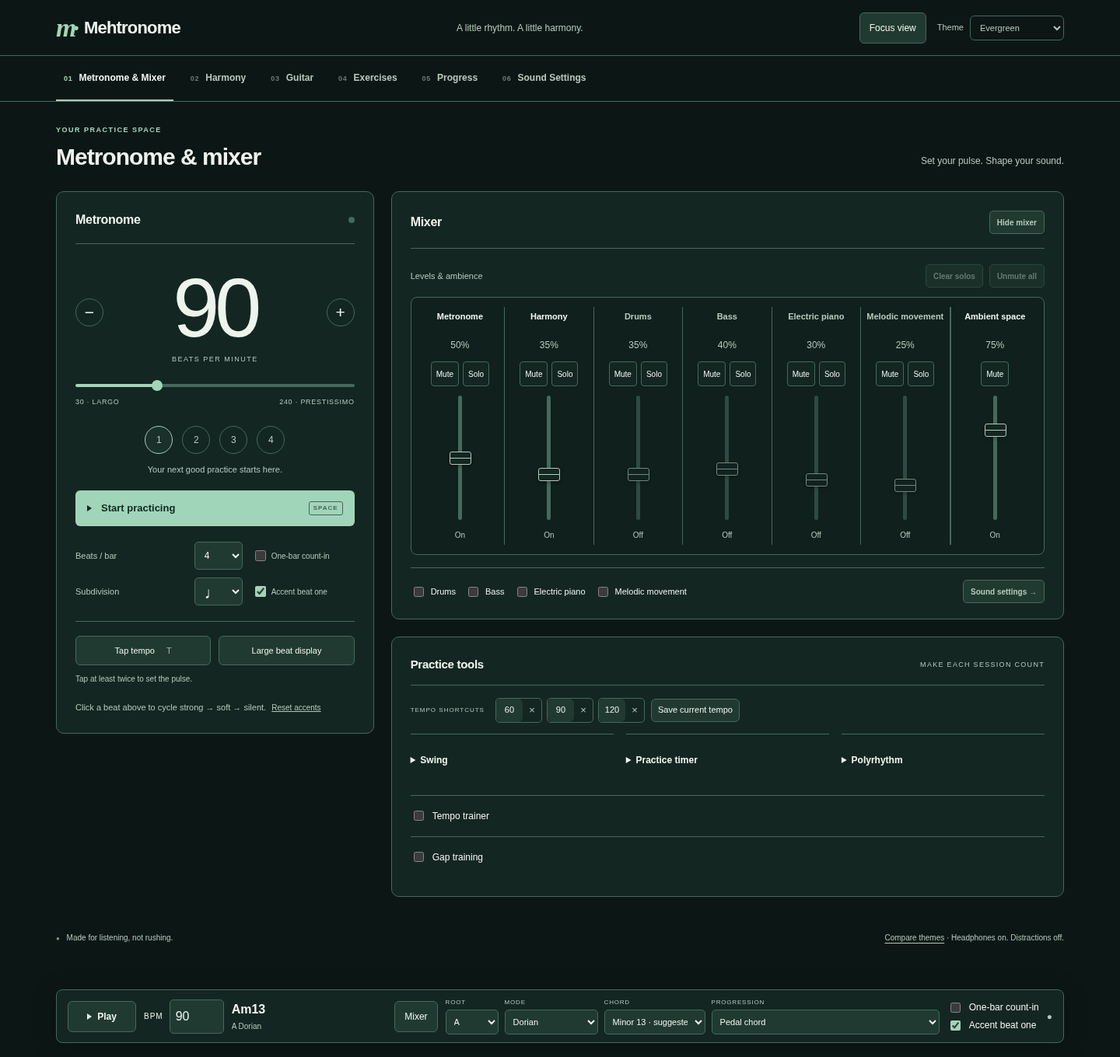
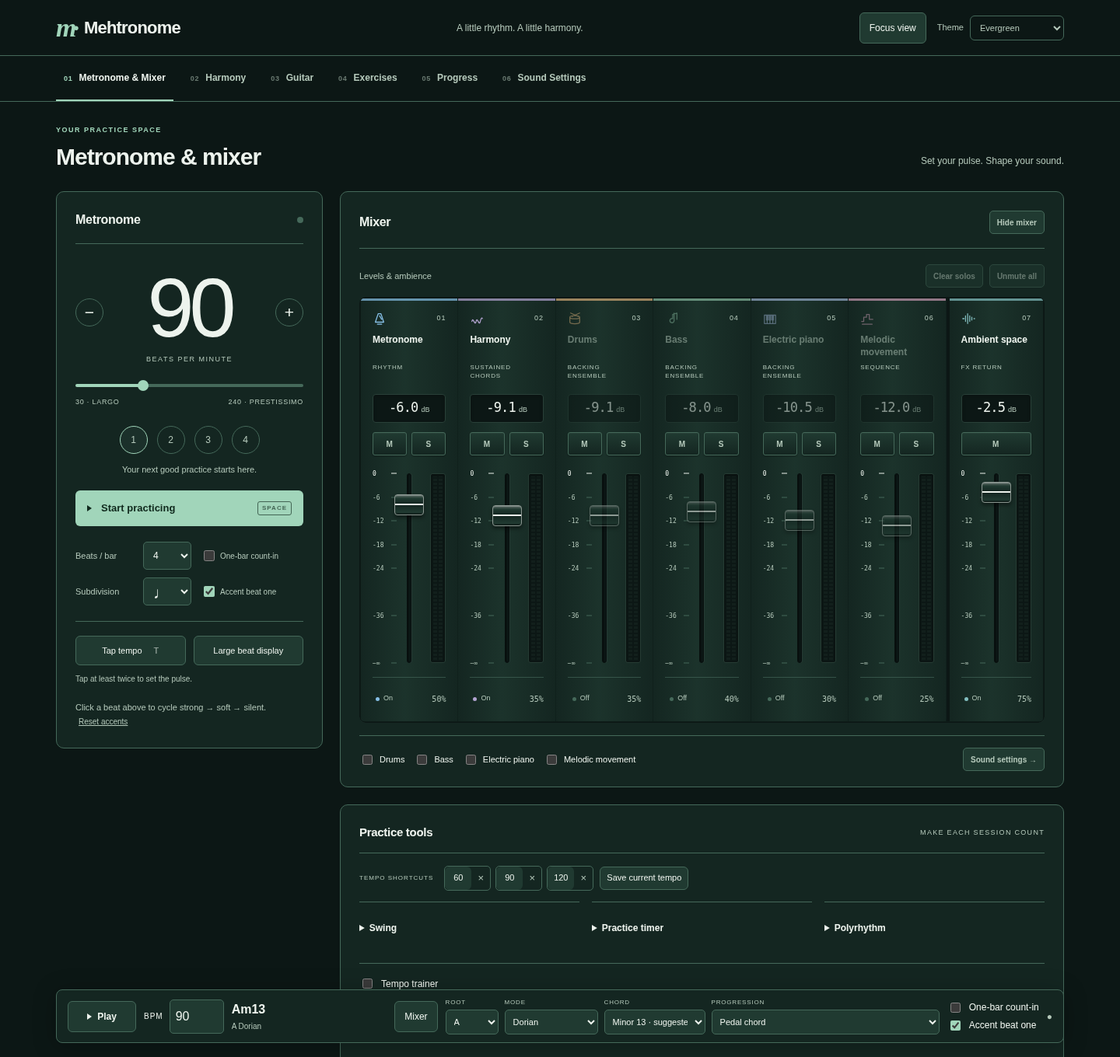
Install studio console with logarithmic faders and measured channel meters

diff --git a/web/src/console.css b/web/src/console.css
@@ -1,0 +1,39 @@
+/* Shared main and focus-bar studio console. */
+html:root[data-palette][data-theme] body :is(#mix-panel,#floating-mixer) {
+.mix-level-grid{display:grid;grid-template-columns:repeat(7,minmax(120px,1fr));gap:1px;padding:1px;background:color-mix(in srgb,var(--line) 60%,var(--page));border:1px solid var(--page);border-radius:8px;overflow:hidden;box-shadow:0 1px 0 #fff1,inset 0 1px 4px #0007}.mix-channel{position:relative;min-width:0;padding:0 15px 14px;background:linear-gradient(90deg,var(--panel),color-mix(in srgb,var(--field) 65%,var(--panel)) 45%,var(--panel));display:flex;flex-direction:column;align-items:stretch}.mix-channel:before{content:'';height:3px;background:var(--channel-color);margin:0 -15px 14px;opacity:.7}.mix-channel.return{border-left:4px solid var(--page)}.console-channel-top{display:flex;justify-content:space-between;align-items:center;margin-bottom:10px}.console-channel-top svg{width:18px;height:18px;stroke:var(--channel-color);fill:none;stroke-width:1.4;stroke-linecap:round;stroke-linejoin:round}.console-number{font-size:9px;color:var(--muted);font-variant-numeric:tabular-nums;letter-spacing:.1em}.console-channel-name{font-size:12px;font-weight:600;min-height:36px;line-height:1.35}.console-channel-role{font-size:8px;color:var(--muted);letter-spacing:.1em;margin:2px 0 12px}.console-gain{text-align:center;background:var(--page);border:1px solid color-mix(in srgb,var(--line) 50%,var(--page));border-radius:4px;padding:7px 2px;box-shadow:inset 0 2px 5px #0003;font-variant-numeric:tabular-nums}.console-gain output{font:500 17px/1.1 ui-monospace,SFMono-Regular,monospace;letter-spacing:-.05em;color:var(--ink)}.console-gain small{font-size:9px;color:var(--muted);margin-left:4px}.console-switches{display:flex;gap:6px;justify-content:center;margin:12px 0}.console-switches button{flex:1;min-height:28px;padding:3px 5px;font-size:10px;font-weight:700;letter-spacing:.1em;border-radius:3px;background:linear-gradient(var(--field),var(--panel));box-shadow:0 1px 2px #0005,inset 0 1px #ffffff08;color:var(--muted)}.console-switches button.channel-mute[aria-pressed=true]{background:#b78a43;border-color:#dfb976;color:#221a0d;box-shadow:0 0 10px #b78a4320,inset 0 1px #ffffff40}.console-switches button.channel-solo[aria-pressed=true]{background:var(--accent);border-color:var(--accent);color:var(--on-accent);box-shadow:0 0 10px color-mix(in srgb,var(--accent) 20%,transparent)}.console-fader-bay{height:260px;position:relative;margin:3px 0 10px;display:flex;justify-content:center}.console-fader-rail{position:absolute;top:8px;bottom:8px;left:calc(50% - 3px);width:6px;border-radius:4px;background:var(--page);border:1px solid color-mix(in srgb,var(--page) 70%,black);box-shadow:inset 1px 0 2px #0008,1px 0 0 #ffffff0c}.console-fader-scale{position:absolute;top:8px;bottom:8px;left:0;width:31px;font:8px ui-monospace,monospace;color:var(--muted)}.console-tick{position:absolute;left:0;width:100%;transform:translateY(50%);display:flex;justify-content:space-between;align-items:center}.console-tick:after{content:'';width:7px;height:1px;background:var(--line)}.console-tick.unity{color:var(--ink)}.console-tick.unity:after{background:var(--ink)}.console-fader-input{appearance:none;writing-mode:vertical-lr;direction:rtl;position:absolute;inset:0;top:8px;width:44px;height:244px;margin:0;opacity:0;cursor:ns-resize;z-index:3;touch-action:none}.console-fader-cap{pointer-events:none;position:absolute;left:calc(50% - 19px);bottom:calc(8px + var(--fader-travel,0) * (100% - 43px));width:38px;height:27px;border:1px solid color-mix(in srgb,var(--ink) 55%,var(--panel));border-radius:4px;background:linear-gradient(to bottom,color-mix(in srgb,var(--panel) 65%,var(--ink)),var(--field) 17%,var(--panel) 44%,var(--ink) 46%,var(--ink) 50%,var(--panel) 52%,var(--field) 88%,color-mix(in srgb,var(--panel) 80%,black));box-shadow:0 3px 5px #0007,inset 0 1px 1px #ffffff40,inset 0 -1px 1px #0004;z-index:2}.console-fader-bay:has(input:focus-visible){outline:2px solid var(--accent);outline-offset:3px;border-radius:4px}.console-meter{position:absolute;right:0;top:8px;bottom:8px;display:flex;gap:2px;background:var(--page);padding:3px;border:1px solid color-mix(in srgb,var(--line) 45%,var(--page));border-radius:3px;box-shadow:inset 0 1px 3px #0007}.console-meter-lane{position:relative;width:5px;overflow:hidden;background:repeating-linear-gradient(to top,#527a6515 0 3px,transparent 3px 5px)}.console-meter-fill{position:absolute;bottom:0;width:100%;height:var(--level,0%);background:linear-gradient(to top,#4b9c81 0%,#8ec583 72%,#d9b76d 94%,#df876d);mask-image:repeating-linear-gradient(to top,#000 0 3px,transparent 3px 5px);transition:none}.console-meter-peak{position:absolute;bottom:var(--peak,0%);width:100%;height:2px;background:#d0c28d;opacity:var(--visible,0);transition:none}.console-strip-footer{display:flex;align-items:center;justify-content:space-between;border-top:1px solid color-mix(in srgb,var(--line) 65%,transparent);padding-top:12px;gap:4px}.console-enable{font-size:9px;padding:3px 6px;min-height:28px;background:transparent;border-color:transparent;color:var(--muted);display:flex;align-items:center;gap:5px}.console-enable i{width:5px;height:5px;border-radius:50%;background:var(--line)}.console-enable[aria-pressed=true] i{background:var(--channel-color);box-shadow:0 0 5px color-mix(in srgb,var(--channel-color) 30%,transparent)}.console-percent{color:var(--muted);font:10px ui-monospace,monospace}.mix-channel.is-inactive :is(.console-channel-name,.console-gain,.console-fader-input,.console-channel-top svg){opacity:.5}
+.mix-level-grid{min-width:0;padding:1px;gap:1px!important;display:grid!important;grid-template-columns:repeat(7,minmax(120px,1fr))!important}
+.mix-channel{gap:0!important;border-radius:0!important;border:0!important;flex:1 0 120px!important;align-items:stretch!important}
+.mix-channel[data-mix-channel=space]{border-left:4px solid var(--page)!important}
+.mix-channel-header{display:block;min-height:0!important;width:100%;gap:0!important}
+.console-channel-name{display:block;text-align:left!important;font-size:12px!important;min-height:36px!important;margin:0!important}
+.mix-channel-header output{display:inline!important;min-height:0!important;color:var(--ink)!important;font-size:17px!important;margin:0!important}
+.console-switches button{min-width:0!important;min-height:30px!important;padding:4px!important}
+.console-strip-footer{min-height:40px}.mix-channel-state{font-size:9px;min-height:0;text-align:left;margin-top:7px}
+.console-enable{min-height:30px}.console-meter{pointer-events:none}.console-enable svg{width:10px;height:10px;fill:currentColor}
+.console-percent{margin-left:auto}.console-fader-bay{margin-top:3px;margin-bottom:10px}
+.console-level-scroll{overflow-x:auto;scrollbar-width:thin;scrollbar-color:var(--line) var(--page);border-radius:8px}
+.mix-level-grid{min-width:868px;grid-template-columns:repeat(7,minmax(120px,1fr))!important}
+.console-strip-footer .console-enable{font-size:9px;padding:3px 4px;min-width:35px}
+.console-strip-footer .console-enable[aria-disabled=true]{cursor:default}
+.mix-channel.is-muted,.mix-channel.is-excluded{border-style:solid!important}
+.mix-channel:is(.is-muted,.is-excluded,.is-inactive) .console-fader-cap{opacity:.55}
+.mix-channel.is-solo{box-shadow:inset 0 -2px var(--accent)}
+&#floating-mixer .console-fader-bay{height:190px}&#floating-mixer .console-fader-input{height:174px}
+&#floating-mixer .console-channel-name{font-size:11px!important}
+@media(max-width:760px){.console-switches button{min-height:44px!important}.console-enable{min-height:44px!important}.mix-level-grid{min-width:980px}.mix-channel{padding-inline:15px!important}}
+
+}
+html:root[data-palette][data-theme] body[data-workspace=practice] .workspace { grid-template-columns:minmax(320px,.7fr) minmax(0,1.9fr); }
+@media(max-width:1050px){html:root[data-palette][data-theme] body[data-workspace=practice] .workspace{grid-template-columns:1fr}}
+html:root[data-palette][data-theme] body :is(#mix-panel,#floating-mixer) {
+ .mix-level-grid {background:var(--pulse)}
+ .console-fader-input,.mix-channel:is(.is-inactive,.is-muted,.is-excluded) .console-fader-input {left:calc(50% - 22px);right:auto;opacity:0!important}
+}
+
+html:root[data-palette][data-theme] body :is(#mix-panel,#floating-mixer) {
+ .console-channel-role { min-height:28px;line-height:1.4 }
+ .mix-channel-state { position:absolute;width:1px;height:1px;overflow:hidden;clip-path:inset(50%);white-space:nowrap }
+ .console-status { cursor:default;padding:3px 4px;min-height:30px }
+ .console-status i { background:var(--channel-color) }
+ .mix-channel:is(.is-muted,.is-excluded) .console-status i { background:var(--line) }
+}

diff --git a/web/src/practice/console.ts b/web/src/practice/console.ts
@@ -1,0 +1,55 @@
+import {MIX_CHANNELS} from './mixer.js';
+const details:Record<string,{role:string;color:string;icon:string}>={
+ click:{role:'RHYTHM',color:'#86bfe6',icon:'M4 15 8 3h4l4 12ZM10 6l3 5M7 18h6'},
+ harmony:{role:'SUSTAINED CHORDS',color:'#b3a4d1',icon:'M3 14c2-8 4 8 6 0s4 8 6 0 3-4 3-4'},
+ drums:{role:'BACKING ENSEMBLE',color:'#d3aa76',icon:'M3 8c0-3 14-3 14 0v7c0 3-14 3-14 0ZM3 8c0 3 14 3 14 0M4 2l11 5M17 2 6 7'},
+ bass:{role:'BACKING ENSEMBLE',color:'#85b79d',icon:'M13 2v11a3 3 0 1 1-2-3V4l6-2v9'},
+ comping:{role:'BACKING ENSEMBLE',color:'#96abc9',icon:'M2 5h16v12H2ZM6 5v12M10 5v12M14 5v12M5 5v7h2V5M9 5v7h2V5M13 5v7h2V5'},
+ sequence:{role:'SEQUENCE',color:'#c699b0',icon:'M2 14h3V8h4V4h4v7h5M3 18h14'},
+ space:{role:'FX RETURN',color:'#83bfc0',icon:'M2 10h2m2-4v8m3-11v14m3-11v8m3-6v4m3-2h1'},
+};
+export function consoleChannel(channel:typeof MIX_CHANNELS[number],index:number){
+ const d=details[channel.id];
+ return `<div class="mix-channel" data-mix-channel="${channel.id}" style="--channel-color:${d.color}"><div class="console-channel-top"><svg viewBox="0 0 20 20" aria-hidden="true"><path d="${d.icon}"/></svg><span class="console-number">${String(index+1).padStart(2,'0')}</span></div><div class="mix-channel-header"><label class="console-channel-name" for="${channel.control}">${channel.label}</label><div class="console-channel-role">${d.role}</div><div class="console-gain"><output id="gain-${channel.id}" aria-hidden="true"></output><small aria-hidden="true">dB</small></div><input id="mute-${channel.id}" type="checkbox" hidden><div class="console-switches"><button type="button" class="channel-mute" data-mute-channel="${channel.id}" aria-label="Mute ${channel.label}" aria-pressed="false" title="Mute ${channel.label}">M</button>${channel.id!=='space'?`<button type="button" class="channel-solo" data-solo-channel="${channel.id}" aria-label="Solo ${channel.label}" aria-pressed="false" title="Solo ${channel.label}">S</button>`:''}</div></div><div class="console-fader-bay"><div class="console-fader-scale" aria-hidden="true">${[0,-6,-12,-18,-24,-36,-48].map(db=>`<span class="console-tick ${db===0?'unity':''}" style="bottom:${(db+48)/48*100}%">${db===-48?'−∞':db}</span>`).join('')}</div><div class="console-fader-rail" aria-hidden="true"></div><span class="console-fader-cap" aria-hidden="true"></span><input id="${channel.control}" class="console-fader-input" type="range" min="0" max="100" value="${channel.value}" aria-describedby="mix-state-${channel.id}" title="${channel.label} volume"><div class="console-meter" aria-hidden="true"><div class="console-meter-lane"><i class="console-meter-fill"></i><i class="console-meter-peak"></i></div><div class="console-meter-lane"><i class="console-meter-fill"></i><i class="console-meter-peak"></i></div></div></div><div class="console-strip-footer">${['drums','bass','comping','sequence'].includes(channel.id)?`<button class="console-enable" type="button" data-console-enable="${channel.id}" aria-label="Enable ${channel.label}" aria-pressed="false"><i></i><span>Off</span></button>`:'<span class="console-enable console-status"><i></i><span>On</span></span>'}<output class="console-percent" id="${channel.output}" for="${channel.control}">${channel.value}%</output></div><span id="mix-state-${channel.id}" class="mix-channel-state">On</span></div>`;
+}
+const control=(id:string)=>document.getElementById(id) as HTMLInputElement;
+export function syncConsole(){
+ for(const channel of MIX_CHANNELS){
+  const card=document.querySelector<HTMLElement>(`[data-mix-channel="${channel.id}"]`);if(!card)continue;
+  const percent=Number(control(channel.control).value),db=percent>0?20*Math.log10(percent/100):-Infinity;
+  card.style.setProperty('--fader-travel',String(Math.max(0,(db+48)/48)));
+  card.querySelector('output')!.textContent=percent?db.toFixed(1):'−∞';
+  control(channel.control).setAttribute('aria-valuetext',`${percent} percent`);
+  const status=card.querySelector<HTMLElement>('.console-status span');if(status)status.textContent=card.classList.contains('is-muted')?'Muted':card.classList.contains('is-excluded')?'Solo muted':card.classList.contains('is-solo')?'Solo':'On';
+  const button=card.querySelector<HTMLButtonElement>('button.console-enable');if(button){const enabled=control(channel.id).checked;button.setAttribute('aria-pressed',String(enabled));button.setAttribute('aria-label',`${enabled?'Disable':'Enable'} ${channel.label}`);button.querySelector('span')!.textContent=enabled?'On':'Off';}
+ }
+}
+let recentPeaks:number[]=[];let receivedAt=0;
+export function receiveConsoleMeters(peaks:number[]){if(!Array.isArray(peaks)||peaks.length!==12)return;recentPeaks=peaks;receivedAt=performance.now();}
+export function installConsole(ambient:()=>number[]){
+ syncConsole();
+ document.getElementById('mix-sections')!.addEventListener('click',event=>{
+  const button=(event.target as HTMLElement).closest<HTMLButtonElement>('[data-console-enable]');if(!button)return;
+  const input=control(button.dataset.consoleEnable!);input.checked=!input.checked;input.dispatchEvent(new Event('input',{bubbles:true}));
+ });
+ for(const channel of MIX_CHANNELS){
+  const input=control(channel.control);let pointer:number|null=null;
+  const move=(event:PointerEvent)=>{const rect=input.getBoundingClientRect();const travel=Math.max(0,Math.min(1,(rect.bottom-event.clientY-13.5)/(rect.height-27)));input.value=String(travel===0?0:Math.round(100*10**((-48+travel*48)/20)));input.dispatchEvent(new Event('input',{bubbles:true}));};
+  input.addEventListener('pointerdown',event=>{if(event.button!==0)return;event.preventDefault();input.focus();pointer=event.pointerId;input.setPointerCapture(pointer);move(event);});
+  input.addEventListener('pointermove',event=>{if(pointer===event.pointerId){event.preventDefault();move(event);}});
+  input.addEventListener('pointerup',event=>{if(pointer!==event.pointerId)return;pointer=null;if(input.hasPointerCapture(event.pointerId))input.releasePointerCapture(event.pointerId);});
+  input.addEventListener('pointercancel',()=>pointer=null);
+  input.addEventListener('dblclick',()=>{input.value=String(channel.value);input.dispatchEvent(new Event('input',{bubbles:true}));});
+ }
+ const lanes=Array.from(document.querySelectorAll<HTMLElement>('.console-meter-lane'));const shown=new Float32Array(14),held=new Float32Array(14);let previous=performance.now();
+ function frame(now:number){
+  const dt=Math.min(.1,(now-previous)/1000);previous=now;
+  const visible=document.getElementById('mix-sections')!.getClientRects().length>0&&!document.hidden;
+  if(visible){const tail=ambient();for(let i=0;i<14;i++){
+   const raw=i<12?(now-receivedAt<180?recentPeaks[i]||0:0):tail[i-12]||0;
+   const target=Number.isFinite(raw)&&raw>0?Math.max(0,Math.min(100,(20*Math.log10(raw)+60)/60*100)):0;
+   shown[i]=Math.max(target,shown[i]-dt*85);held[i]=Math.max(target,held[i]-dt*18);
+   lanes[i].style.setProperty('--level',`${shown[i]}%`);lanes[i].style.setProperty('--peak',`${held[i]}%`);lanes[i].style.setProperty('--visible',held[i]>0?'1':'0');
+  }}requestAnimationFrame(frame);
+ }requestAnimationFrame(frame);
+}

diff --git a/web/src/main.ts b/web/src/main.ts
@@ -12,6 +12,8 @@ import './style.css';
 import './themes.css';
 import './practice.css';
 import './interface.css';
+import './console.css';
+import {consoleChannel, syncConsole, installConsole, receiveConsoleMeters} from './practice/console.js';
 import { POSITIONS, cagedPositionFor, fretboardFor, diagramSvg, fullFretboardFor, fullFretboardSvg, parentMajorFor } from './guitar/fretboard.js';
 import { cagedStudy, exerciseNotationSvg, flattenExercise, PENTATONIC_PATTERNS } from './guitar/exercises.js';
 import { FRET_REGIONS, progressionPositionPath } from './guitar/position-path.js';
@@ -123,7 +125,7 @@ app.innerHTML = `
     <section id="mix-panel" class="mix panel workspace-page workspace-practice" aria-labelledby="mix-title"><div class="section-heading"><div><p class="eyebrow">SOUND DESK</p><h2 id="mix-title">Mixer</h2></div><button id="mix-collapse" class="panel-action" type="button" aria-controls="mix-sections" aria-expanded="true">Hide mixer</button></div>
       <p id="mixer-docked-note" class="practice-help" hidden>Mixer is open above the focus bar. <button id="mixer-return" type="button" class="panel-action">Return mixer here</button></p><div id="mix-sections" class="mix-sections">
         <section class="mix-levels mix-group" aria-labelledby="levels-title"><div class="levels-heading"><h3 id="levels-title">Levels &amp; ambience</h3><button id="mixer-clear-solos" type="button" class="panel-action" disabled>Clear solos</button><button id="mixer-unmute-all" type="button" class="panel-action" disabled>Unmute all</button></div>
-          <div class="mix-level-grid">${MIX_CHANNELS.map(channel=>`<div class="mix-channel" data-mix-channel="${channel.id}"><div class="mix-channel-header"><label for="${channel.control}">${channel.label}</label><output id="${channel.output}">${channel.value}%</output><input id="mute-${channel.id}" type="checkbox" hidden><button type="button" class="channel-mute" data-mute-channel="${channel.id}" aria-label="Mute ${channel.label}" aria-pressed="false">Mute</button>${channel.id!=='space'?`<button type="button" class="channel-solo" data-solo-channel="${channel.id}" aria-label="Solo ${channel.label}" aria-pressed="false">Solo</button>`:''}</div><input id="${channel.control}" type="range" min="0" max="100" value="${channel.value}" aria-describedby="mix-state-${channel.id}"><span id="mix-state-${channel.id}" class="mix-channel-state">On</span></div>`).join('')}</div>
+          <div class="console-level-scroll" tabindex="0" aria-label="Scroll mixer channels"><div class="mix-level-grid">${MIX_CHANNELS.map(consoleChannel).join('')}</div></div>
         </section>
 <div class="mixer-quick-switches" aria-label="Enable instruments"><label class="check"><input id="drums" type="checkbox">Drums</label><label class="check"><input id="bass" type="checkbox">Bass</label><label class="check"><input id="comping" type="checkbox">Electric piano</label><label class="check"><input id="sequence" type="checkbox">Melodic movement</label><button type="button" id="open-sound-settings" class="panel-action">Sound settings →</button></div></div></section>
 <section class="studio-tools panel workspace-page workspace-practice" aria-labelledby="practice-tools-title"><div class="section-heading"><h2 id="practice-tools-title">Practice tools</h2><span class="small-label">MAKE EACH SESSION COUNT</span></div>      <div class="pulse-shortcut-row"><span class="small-label">TEMPO SHORTCUTS</span><div id="tempo-shortcuts" class="tempo-shortcuts"></div><button id="tempo-save" type="button" class="practice-button">Save current tempo</button><span id="tempo-shortcut-status" class="practice-help" role="status"></span></div>      <div class="pulse-tool-grid">
@@ -189,6 +191,8 @@ let playing = false;
 let busy = false;
 let step = 0;
 let context: AudioContext | undefined;
+let ambientMeters:AnalyserNode[]=[];
+const ambientSamples=new Float32Array(256);
 let node: AudioWorkletNode | undefined;
 let stopping = false;
 let guitarDegrees = true;
@@ -628,6 +632,7 @@ function commitCustomEdit(autoMode=false){
 }
 function updateSpace() {
   el('space-value').textContent = `${input('space').value}%`;
+  syncConsole();
   if (wet && context) wet.gain.setTargetAtTime((input('mute-space').checked?0:Number(input('space').value) / 100 * .65), context.currentTime, .08);
 }
 function update() {
@@ -846,7 +851,11 @@ async function prepareAudio() {
     reverbGate.gain.value = 0;
     node.connect(reverbGate.gain,3);
     wet.connect(reverbGate).connect(master);
+    const meterSplit=context.createChannelSplitter(2);reverbGate.connect(meterSplit);
+    ambientMeters=[context.createAnalyser(),context.createAnalyser()];
+    ambientMeters.forEach((meter,index)=>{meter.fftSize=256;meterSplit.connect(meter,index);});
     node.port.onmessage = ({ data }) => {
+      if(data.type==='meters'){receiveConsoleMeters(data.peaks);return;}
       if(!playing&&exercisePlaying&&exerciseView.backing&&typeof data.step==='number')renderProgressionReference(data.step);
       if (!playing) return;
       if(data.type==='session-complete'){
@@ -1259,10 +1268,11 @@ function reflectMixerChannels(){
     card.classList.toggle('is-muted',muted);card.classList.toggle('is-inactive',!enabled);
     const button=card.querySelector<HTMLButtonElement>('.channel-mute')!;
     button.setAttribute('aria-pressed',String(muted));button.setAttribute('aria-label',`${muted?'Unmute':'Mute'} ${channel.label}`);
-    button.textContent=muted?'Muted':'Mute';
+    button.textContent='M';button.title=`${muted?'Unmute':'Mute'} ${channel.label}`;
     el('mix-state-'+channel.id).textContent=!enabled?(muted?'Off · muted':'Off'):muted?'Muted':excluded?'Solo muted':solo?'Solo':'On';
     if(muted)mutedCount++;
   }
+  syncConsole();
   el<HTMLButtonElement>('mixer-unmute-all').disabled=mutedCount===0;
   el<HTMLButtonElement>('mixer-clear-solos').disabled=soloChannels.size===0;
 }
@@ -1766,4 +1776,9 @@ input('preset-file').addEventListener('change',async()=>{
     persistPresets(result.items,result.items.at(-1)?.id||'',`Imported ${result.imported} practice preset${result.imported===1?'':'s'}. Existing setups kept.`);
   }catch(error){el('preset-status').textContent=(error as Error).message;}
   finally{input('preset-file').value='';}
+});
+
+installConsole(()=>{
+  if(!context||context.state!=='running'||!master||master.gain.value<.00001)return [0,0];
+  return ambientMeters.map(meter=>{meter.getFloatTimeDomainData(ambientSamples);let peak=0;for(const value of ambientSamples)peak=Math.max(peak,Math.abs(value));return peak*master!.gain.value;});
 });

diff --git a/web/src/audio/engine.js b/web/src/audio/engine.js
@@ -168,6 +168,7 @@ export class Engine {
     this.rhythm = new Rhythm(this.rate, this.drumKit);
     this.comping = new CompingInstrument(this.rate);
     this.drumsLevel = 0;
+    this.meterPeaks = new Float32Array(12);
     this.bassLevel = 0;
     this.compingLevel = 0;
     this.sequenceLevel = 0;
@@ -406,6 +407,8 @@ export class Engine {
       for (let i = 0; i < output.length; i++) {
         this.level += ((this.running ? 1 : 0) - this.level) * this.smoothing;
         const value = this.guitar.sample() * this.level * harmonyVolume;
+        this.meterPeaks[2]=Math.max(this.meterPeaks[2],Math.abs(value));
+        this.meterPeaks[3]=Math.max(this.meterPeaks[3],Math.abs(value));
         output[i] = harmonyOutput ? 0 : value;
         if (harmonyOutput) harmonyOutput[i] = value;
         if (harmonyRight) harmonyRight[i] = value;
@@ -644,6 +647,18 @@ export class Engine {
       this.gapGain = target ? Math.min(1,this.gapGain+this.gapSlew) : Math.max(0,this.gapGain-this.gapSlew);
       const clickGate = s.gapTarget === 'backing' ? 1 : this.gapGain;
       const backingGate = s.gapTarget === 'click' ? 1 : this.gapGain;
+      // Post-fader, post-gap dry channel peaks. Monitoring never alters audio.
+      const peak=this.meterPeaks,gate=this.level*backingGate;
+      const clickPeak=Math.abs(clickSample*clickGate*.92);
+      peak[0]=Math.max(peak[0],clickPeak);peak[1]=Math.max(peak[1],clickPeak);
+      peak[2]=Math.max(peak[2],Math.abs(gate*.37*this.harmonyLevel*chord*this.breath*this.phraseArc*rhythmDucking));
+      peak[3]=Math.max(peak[3],Math.abs(gate*.37*this.harmonyLevel*chordRight*this.breath*this.phraseArc*rhythmDucking));
+      const drumPeak=Math.abs(gate*.5*this.drumsLevel*this.rhythm.drums),bassPeak=Math.abs(gate*.3*this.bassLevel*this.rhythm.bass),compPeak=Math.abs(gate*.24*this.compingLevel*comping);
+      peak[4]=Math.max(peak[4],drumPeak);peak[5]=Math.max(peak[5],drumPeak);
+      peak[6]=Math.max(peak[6],bassPeak);peak[7]=Math.max(peak[7],bassPeak);
+      peak[8]=Math.max(peak[8],compPeak);peak[9]=Math.max(peak[9],compPeak);
+      peak[10]=Math.max(peak[10],Math.abs(gate*.15*this.sequenceLevel*this.sequence.left));
+      peak[11]=Math.max(peak[11],Math.abs(gate*.15*this.sequenceLevel*this.sequence.right));
       if (gapOutput) gapOutput[i] = backingGate;
       const backingSample=this.level*left*backingGate;
       const rightSample=this.level*right*backingGate;

diff --git a/web/browser-tests/console.spec.ts b/web/browser-tests/console.spec.ts
@@ -1,0 +1,14 @@
+import {expect,test} from '@playwright/test';
+test('console faders use a gain taper, preserve percent controls, and reset on double click',async({page})=>{
+ await page.goto('/');const fader=page.locator('#click');await expect(page.locator('.console-meter-lane')).toHaveCount(14);
+ await fader.click({position:{x:22,y:122}});await expect(fader).toHaveValue('6');await expect(page.locator('#click-value')).toHaveText('6%');await expect(page.locator('#gain-click')).toHaveText('-24.4');
+ await fader.press('ArrowUp');await expect(fader).toHaveValue('7');await fader.dblclick();await expect(fader).toHaveValue('50');await expect(page.locator('#gain-click')).toHaveText('-6.0');
+ await page.getByRole('button',{name:'Enable Drums',exact:true}).click();await expect(page.locator('#drums')).toBeChecked();await expect(page.getByRole('button',{name:'Disable Drums',exact:true})).toHaveAttribute('aria-pressed','true');
+ await page.locator('#mini-mixer').click();await expect(page.locator('#floating-mixer #click')).toHaveValue('50');await expect(page.locator('#floating-mixer .console-meter-lane')).toHaveCount(14);
+});
+test('real channel meters are idle before audio, respond to sound, and decay after mute',async({page})=>{
+ await page.goto('/');const meter=page.locator('[data-mix-channel=click] .console-meter-lane').first();
+ const level=()=>meter.evaluate(el=>parseFloat((el as HTMLElement).style.getPropertyValue('--level'))||0);
+ expect(await level()).toBe(0);await expect(meter.locator('.console-meter-fill')).toHaveCSS('height','0px');await page.locator('#harmony').fill('0');await page.locator('#harmony').dispatchEvent('input');await page.locator('#bpm').fill('240');await page.locator('#bpm').dispatchEvent('change');await page.locator('#play').click();
+ await expect.poll(level).toBeGreaterThan(1);await page.locator('[data-mute-channel=click]').click();await expect.poll(level,{timeout:5000}).toBe(0);await expect(page.locator('#play')).toHaveAttribute('aria-pressed','true');await page.locator('[data-mute-channel=click]').click();await expect.poll(level).toBeGreaterThan(1);await page.locator('#play').click();await expect.poll(level,{timeout:5000}).toBe(0);
+});

diff --git a/web/tests/console-meters.test.js b/web/tests/console-meters.test.js
@@ -1,0 +1,21 @@
+import {test} from 'node:test';
+import assert from 'node:assert/strict';
+import {Engine} from '../src/audio/engine.js';
+
+test('metronome meter measures the rendered dry click bus and mute reaches silence',()=>{
+ const engine=new Engine(8000);engine.configure({countIn:false,click:1,harmony:0,drums:false,bass:false,comping:false,sequence:false});engine.reset();
+ const click=new Float32Array(16000),left=new Float32Array(16000),right=new Float32Array(16000),rhythm=new Float32Array(16000);
+ engine.render(click,undefined,left,right,undefined,rhythm);
+ const peak=click.reduce((max,x)=>Math.max(max,Math.abs(x)),0);
+ assert.ok(peak>.01);assert.ok(Math.abs(engine.meterPeaks[0]-peak)<1e-6);assert.equal(engine.meterPeaks[0],engine.meterPeaks[1]);
+ assert.ok(Array.from(engine.meterPeaks.subarray(2)).every(value=>value===0));
+ engine.configure({mutedChannels:'click'});engine.render(new Float32Array(16000));engine.meterPeaks.fill(0);engine.render(new Float32Array(8000));
+ assert.ok(engine.meterPeaks[0]<1e-7);
+});
+
+test('reading and resetting channel peaks never changes rendered audio',()=>{
+ const a=new Engine(8000),b=new Engine(8000);a.configure({countIn:false});b.configure({countIn:false});a.reset();b.reset();
+ const expected=new Float32Array(24000),actual=new Float32Array(24000);a.render(expected);
+ for(let offset=0;offset<actual.length;offset+=128){b.render(actual.subarray(offset,offset+128));assert.ok(Array.from(b.meterPeaks).every(Number.isFinite));b.meterPeaks.fill(0);}
+ assert.deepEqual(actual,expected);
+});

diff --git a/web/src/audio/worklet.js b/web/src/audio/worklet.js
@@ -5,6 +5,7 @@ class HarmonyProcessor extends AudioWorkletProcessor {
     super();
     this.engine = new Engine(sampleRate);
     this.active = false;
+    this.meterFrames = 0;
     this.onBeat = event => this.port.postMessage(event);
     this.port.onmessage = ({ data }) => {
       if (data.type === 'drum-kit') {
@@ -37,6 +38,11 @@ class HarmonyProcessor extends AudioWorkletProcessor {
       this.engine.render(channels[0].subarray(offset), this.onBeat, view(outputs,1), view(outputs,1,1), undefined, view(outputs,2), undefined, view(outputs,3), this.onBeat);
       if (outputs[2]?.length > 1) outputs[2][1].set(outputs[2][0].subarray(offset),offset);
       for (let i = 1; i < channels.length; i++) channels[i].set(channels[0].subarray(offset),offset);
+      this.meterFrames+=channels[0].length;
+      if(this.meterFrames>=sampleRate/20){
+        this.port.postMessage({type:'meters',peaks:Array.from(this.engine.meterPeaks)});
+        this.engine.meterPeaks.fill(0);this.meterFrames=0;
+      }
       if (!this.engine.running && this.engine.level < 0.00001) this.active = false;
     }
     return true;

diff --git a/README.md b/README.md
@@ -345,3 +345,9 @@ Evolving chord extensions start enabled for new sessions (an eight-bar blend). S
 The approved interface places Metronome beside Mixer on desktop, with secondary Practice tools below the mixer. Phone layouts stack the panels and scroll the console horizontally. Shared typography, spacing and control sizes carry through all six workspaces; existing palette tokens and musical highlight colours are unchanged.
 
 Theme offers Refined Midnight, Plum Ink, Evergreen and Soft Stone as the studio palettes. The selected theme is remembered in this browser, including Soft Stone on reload. These are the only available themes. Musical highlights retain consistent root, chord-tone and modal-colour roles across all four studio themes.
+
+### Studio mixing console
+
+The main mixer and focus-bar drawer share the same seven channel strips, including mute/solo states and saved volume levels. The console has logarithmic fader travel, dB gain readouts and percent values; keyboard arrows still adjust volume by one percentage point. Double-click a fader to restore its default level. Instruments can also be enabled directly on their strips.
+
+Meters show measured post-fader dry channel peaks, with stereo movement where the source is stereo. Ambient space measures the stereo reverb return. Peak holds decay after playback stops; the visual meters never generate or alter sound. On narrow screens, scroll across the strips to reach every channel.
